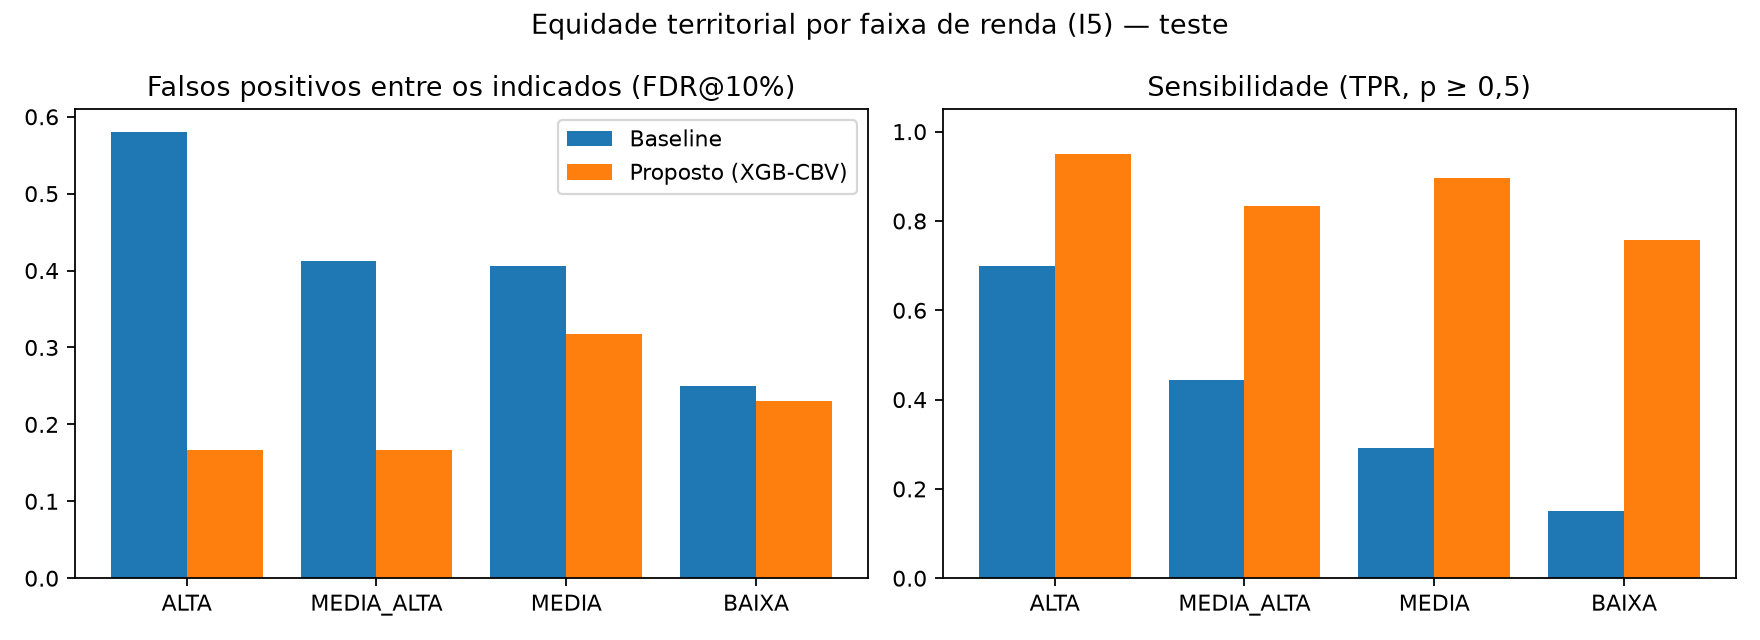
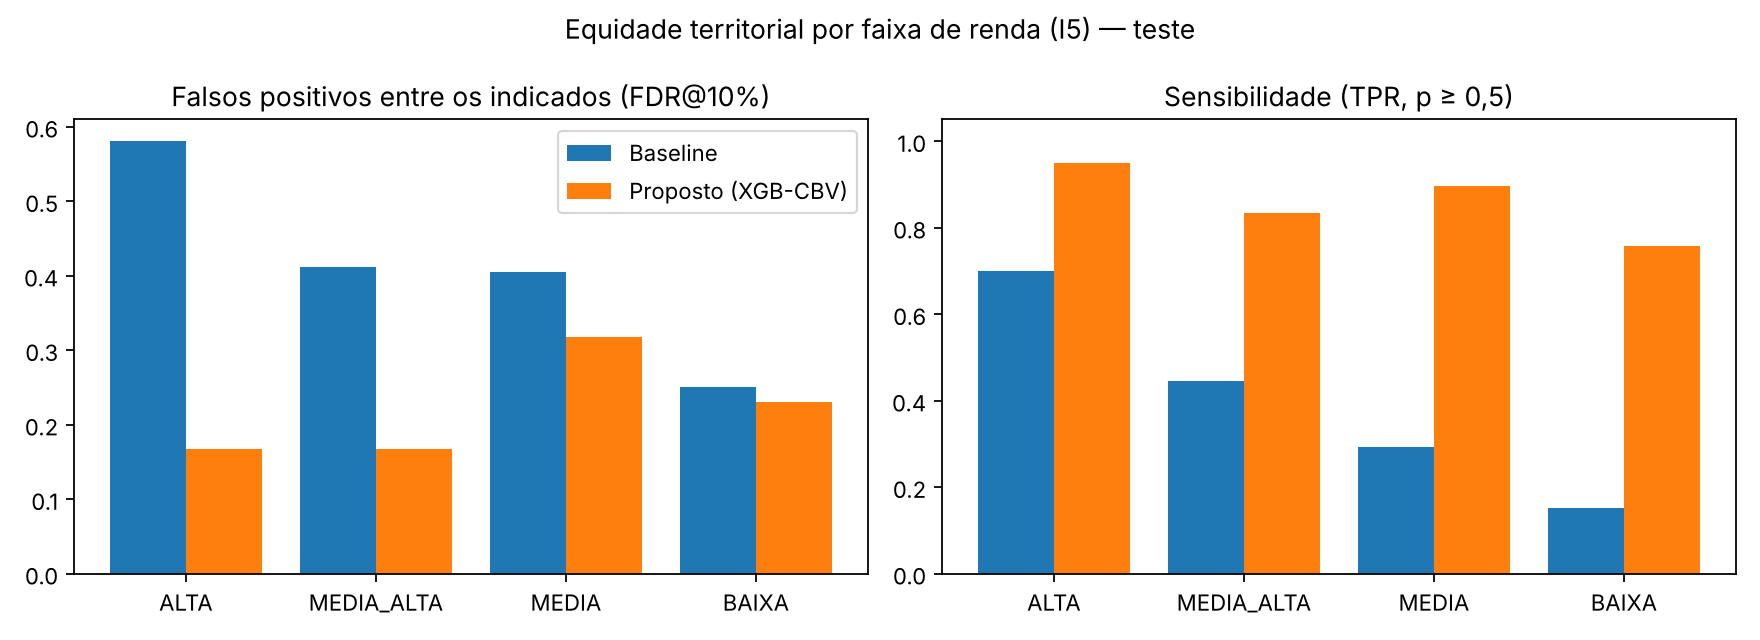
Speedup OMP=1: S(p) pela mediana (S2=1,71; S3=1,98)

diff --git a/experiments/resultados/speedup.tex b/experiments/resultados/speedup.tex
@@ -4,12 +4,12 @@
 \label{tab:speedup}
 \begin{tabular}{lcccccc}
 \hline
-Modo & $p$ & $T_p$ (s) & $S(p)$ & $E(p)$ & Vazão (UC/s) & $e_{KF}$ \\
+Modo & $p$ & $\tilde T_p$ (s) [IQR] & $S(p)$ & $E(p)$ & Vazão (UC/s) & $e_{KF}$ \\
 \hline
-SEQUENCIAL & 1 & 26.4 $\pm$ 1.19 & 1.0 & 1.0 & 11.365 & -- \\
-PARALELO & 1 & 26.25 $\pm$ 0.29 & 1.006 & 1.006 & 11.43 & -- \\
-PARALELO & 2 & 17.04 $\pm$ 3.01 & 1.549 & 0.775 & 17.61 & 0.2908 \\
-PARALELO & 3 & 21.99 $\pm$ 16.32 & 1.201 & 0.4 & 13.645 & 0.7494 \\
+SEQUENCIAL & 1 & 26.72 [1.43] & 1.0 & 1.0 & 11.226 & -- \\
+PARALELO & 1 & 26.32 [0.29] & 1.015 & 1.015 & 11.399 & -- \\
+PARALELO & 2 & 15.64 [2.76] & 1.709 & 0.854 & 19.183 & 0.1704 \\
+PARALELO & 3 & 13.53 [14.58] & 1.975 & 0.658 & 22.171 & 0.2595 \\
 \hline
 \end{tabular}
 \end{table}

diff --git a/experiments/resultados/speedup.md b/experiments/resultados/speedup.md
@@ -1,10 +1,19 @@
 # Speedup — processamento distribuído do lote
 
-| Modo | p | T (s) | S(p) | E(p) | Vazão (UC/s) | Karp–Flatt | Latência med. (ms) | Desequilíbrio |
-|---|---|---|---|---|---|---|---|---|
-| SEQUENCIAL | 1 | 26.4 ± 1.19 | 1.0 | 1.0 | 11.365 | — | 82.0 | 1.0 |
-| PARALELO | 1 | 26.25 ± 0.29 | 1.006 | 1.006 | 11.43 | — | 81.0 | 1.0 |
-| PARALELO | 2 | 17.04 ± 3.01 | 1.549 | 0.775 | 17.61 | 0.2908 | 75.0 | 1.258 |
-| PARALELO | 3 | 21.99 ± 16.32 | 1.201 | 0.4 | 13.645 | 0.7494 | 116.0 | 1.23 |
+S(p) calculado pela mediana dos tempos.
 
-Fração serial estimada (Amdahl): **0.5841** → speedup máximo teórico **1.71×**.
+| Modo | p | T mediana (s) [IQR] | S(p) | E(p) | Vazão (UC/s) | Karp–Flatt | Latência med. (ms) | Desequilíbrio |
+|---|---|---|---|---|---|---|---|---|
+| SEQUENCIAL | 1 | 26.72 [1.43] | 1.0 | 1.0 | 11.226 | — | 82.0 | 1.0 |
+| PARALELO | 1 | 26.32 [0.29] | 1.015 | 1.015 | 11.399 | — | 81.0 | 1.0 |
+| PARALELO | 2 | 15.64 [2.76] | 1.709 | 0.854 | 19.183 | 0.1704 | 75.0 | 1.258 |
+| PARALELO | 3 | 13.53 [14.58] | 1.975 | 0.658 | 22.171 | 0.2595 | 116.0 | 1.23 |
+
+## Todas as repetições
+
+- SEQUENCIAL p=1: 27.04 s, 24.82 s, 26.75 s, 27.94 s, 26.7 s, 25.15 s
+- PARALELO p=1: 26.32 s, 26.5 s, 25.92 s
+- PARALELO p=2: 20.5 s, 14.97 s, 15.64 s
+- PARALELO p=3: 40.8 s, 13.53 s, 11.63 s
+
+Fração serial estimada (Amdahl): **0.2274** → speedup máximo teórico **4.4×**.

diff --git a/experiments/resultados/benchmark.md b/experiments/resultados/benchmark.md
@@ -1,6 +1,6 @@
 # Resultados do benchmark — Radar Cadastral SANEAGO
 
-Gerado em 2026-11-26T03:02:24+00:00 · semente 20261125 · W = 2000 UCs (CV 5 folds) ·
+Gerado em 2026-11-26T02:02:12+00:00 · semente 20261125 · W = 2000 UCs (CV 5 folds) ·
 T = 1000 UCs (teste fora da amostra) · k = 10% das UCs residenciais · IC 95% por bootstrap (B = 1000).
 
 ## Tabela 1 — Validação cruzada em W (predições fora do fold)
@@ -60,7 +60,7 @@ Acurácia da categoria sugerida entre os irregulares (teste): 0.8487.
 Prevalência de irregulares: W = 0.132 · T = 0.119.
 
 mAP@0,5 = 0.9963 · mAP@0,5:0,95 = 0.94 ·
-tempo médio de inferência = 32.2 ms/imagem (CPU, 1 processo).
+tempo médio de inferência = 40.8 ms/imagem (CPU, 1 processo).
 
 ## Importância dos atributos (ganho médio, modelo proposto)
 
